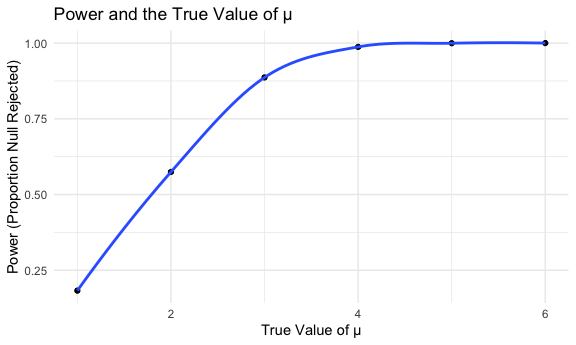
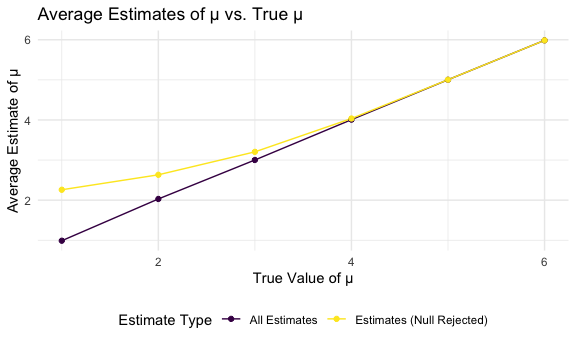
writing comments on plots/editing format

diff --git a/p8105_hw5_yh3824.md b/p8105_hw5_yh3824.md
@@ -1,7 +1,7 @@
 p8105_hw5_yh3824
 ================
 ruby
-2025-10-30
+2025-11-11
 
 load packages/set formatting
 
@@ -28,20 +28,9 @@ scale_fill_discrete = scale_fill_viridis_d
 set.seed(1)
 ```
 
-### Problem 1
+## Problem 1
 
-``` r
-birthdays = sample(1:365, 5, replace = TRUE)
-
-
-repeated_bday = length(unique(birthdays)) < 5
-
-repeated_bday
-```
-
-    ## [1] FALSE
-
-put this into a function
+make a function for birthday simulation
 
 ``` r
 bday_sim = function(n_room) {
@@ -81,7 +70,7 @@ bday_sim_results =
   )
 ```
 
-plot this
+Make a plot
 
 ``` r
 bday_sim_results |> 
@@ -95,7 +84,9 @@ bday_sim_results |>
   )
 ```
 
-<img src="p8105_hw5_yh3824_files/figure-gfm/unnamed-chunk-6-1.png" width="90%" />
+<img src="p8105_hw5_yh3824_files/figure-gfm/unnamed-chunk-5-1.png" width="90%" />
+
+### Comments
 
 This plot shows us that as the probability of sharing a repeated
 birthday increases as the sample group increases. This is as expected as
@@ -103,12 +94,12 @@ the more people who are sampled, the more likely there will be at least
 2 people who share the same birthday. At around 23-24 is when we see the
 probability exceeding 50%, which demonstrates the birthday paradox.
 
-### Problem 2
+## Problem 2
 
 for mu = 0
 
 ``` r
-prob2 = 
+powermu_zero = 
   expand_grid(
     sample_n = 30,
     sample_sd = 5,
@@ -156,10 +147,14 @@ power_sim |>
 )
 ```
 
-    ## `geom_smooth()` using method = 'loess' and formula = 'y ~ x'
+<img src="p8105_hw5_yh3824_files/figure-gfm/unnamed-chunk-8-1.png" width="90%" />
 
-<img src="p8105_hw5_yh3824_files/figure-gfm/unnamed-chunk-9-1.png" width="90%" />
-insert write up!
+### Comments
+
+This plot shows that the power of the test increases as the true value
+of μ increases. When μ is close to the null (0), the test rarely rejects
+the null, resulting in low power. As μ increases, the effect becomes
+easier to detect, and the probability of rejecting the null increases.
 
 make a plot with avg estimate of mu and true value of mu
 
@@ -185,11 +180,18 @@ power_sim |>
   )
 ```
 
-<img src="p8105_hw5_yh3824_files/figure-gfm/unnamed-chunk-10-1.png" width="90%" />
+<img src="p8105_hw5_yh3824_files/figure-gfm/unnamed-chunk-9-1.png" width="90%" />
 
-Insert write up!
+### Comments
 
-### Problem 3
+Across the samples, the average estimate of mu_hat is reasonably similar
+to the true value of mu, reflecting an unbiased estimator. However, when
+looking only at samples where the null was rejected, the average mu_hat
+is larger for smaller true mu values. This could be because as mu
+becomes larger, the probability of the test rejecting the null is
+higher, so the average estimate would match up closer to the true mu.
+
+## Problem 3
 
 import homicide-csv data
 
@@ -197,16 +199,14 @@ import homicide-csv data
 homicide_df = read_csv(file = "./data/homicide-data.csv")
 ```
 
-    ## Rows: 52179 Columns: 12
-    ## ── Column specification ────────────────────────────────────────────────────────
-    ## Delimiter: ","
-    ## chr (9): uid, victim_last, victim_first, victim_race, victim_age, victim_sex...
-    ## dbl (3): reported_date, lat, lon
-    ## 
-    ## ℹ Use `spec()` to retrieve the full column specification for this data.
-    ## ℹ Specify the column types or set `show_col_types = FALSE` to quiet this message.
+### Description of the Raw Data
 
-## Description of the Data
+The `homicide_df` dataset has 52179 observations, with 12 variables. The
+dataset describes homicides in 50 large U.S. cities that occurred
+between approximately 2007-2017. It includes information including where
+the homicide occurred, the victim name, race, sex, and age. It also
+includes disposition of the homicide - if it is Open/no arrest, closed
+by arrest, and closed without arrest.
 
 Create a `city_state` variable
 
@@ -218,7 +218,8 @@ homicide_df =
     ) 
 ```
 
-write a `summarize_homicides` function
+write a `summarize_homicides` function that summarizes the total
+homicides, and total unsolved homicides
 
 ``` r
 summarize_homicides = function(df, disposition_col = "disposition",
@@ -232,10 +233,8 @@ summarize_homicides = function(df, disposition_col = "disposition",
 }
 ```
 
-For the city of Baltimore, MD \* use `prop.test` to estimate the
-proportion of homicides that are unsolved, \* save `prop.test` output as
-an R object, \* apply `broom::tidy` and \* pull the estimate propotion
-and CI
+For the city of Baltimore, MD, pull the estimate proportions and CI of
+unsolved homicides
 
 ``` r
 baltimore_proptest = 
@@ -248,9 +247,16 @@ baltimore_proptest =
   ))() |> 
   broom::tidy() |> 
   select(estimate, conf.low, conf.high)
+
+baltimore_proptest |> 
+  knitr::kable(digits = 2)
 ```
 
-map across all cities
+| estimate | conf.low | conf.high |
+|---------:|---------:|----------:|
+|     0.65 |     0.63 |      0.66 |
+
+Pull proportion of unsolved homicides, and CI across all cities
 
 ``` r
 city_proptest = 
@@ -260,8 +266,7 @@ city_proptest =
   mutate(
     test_result = map2(
       unsolved_homicide,
-      total_homicide,
-      ~ prop.test(.x, .y)  |>  
+      total_homicide, ~ prop.test(.x, .y)  |>  
     broom::tidy())) |> 
   unnest(test_result) |> 
   select(city_state, estimate, conf.low, conf.high)
@@ -271,6 +276,65 @@ city_proptest =
     ## ℹ In argument: `test_result = map2(...)`.
     ## Caused by warning in `prop.test()`:
     ## ! Chi-squared approximation may be incorrect
+
+``` r
+city_proptest |> 
+  knitr::kable(digits = 2)
+```
+
+| city_state         | estimate | conf.low | conf.high |
+|:-------------------|---------:|---------:|----------:|
+| Albuquerque, NM    |     0.39 |     0.34 |      0.44 |
+| Atlanta, GA        |     0.38 |     0.35 |      0.41 |
+| Baltimore, MD      |     0.65 |     0.63 |      0.66 |
+| Baton Rouge, LA    |     0.46 |     0.41 |      0.51 |
+| Birmingham, AL     |     0.43 |     0.40 |      0.47 |
+| Boston, MA         |     0.50 |     0.46 |      0.55 |
+| Buffalo, NY        |     0.61 |     0.57 |      0.65 |
+| Charlotte, NC      |     0.30 |     0.27 |      0.34 |
+| Chicago, IL        |     0.74 |     0.72 |      0.75 |
+| Cincinnati, OH     |     0.45 |     0.41 |      0.48 |
+| Columbus, OH       |     0.53 |     0.50 |      0.56 |
+| Dallas, TX         |     0.48 |     0.46 |      0.51 |
+| Denver, CO         |     0.54 |     0.48 |      0.60 |
+| Detroit, MI        |     0.59 |     0.57 |      0.61 |
+| Durham, NC         |     0.37 |     0.31 |      0.43 |
+| Fort Worth, TX     |     0.46 |     0.42 |      0.51 |
+| Fresno, CA         |     0.35 |     0.31 |      0.39 |
+| Houston, TX        |     0.51 |     0.49 |      0.53 |
+| Indianapolis, IN   |     0.45 |     0.42 |      0.48 |
+| Jacksonville, FL   |     0.51 |     0.48 |      0.54 |
+| Kansas City, MO    |     0.41 |     0.38 |      0.44 |
+| Las Vegas, NV      |     0.41 |     0.39 |      0.44 |
+| Long Beach, CA     |     0.41 |     0.36 |      0.46 |
+| Los Angeles, CA    |     0.49 |     0.47 |      0.51 |
+| Louisville, KY     |     0.45 |     0.41 |      0.49 |
+| Memphis, TN        |     0.32 |     0.30 |      0.34 |
+| Miami, FL          |     0.60 |     0.57 |      0.64 |
+| Milwaukee, wI      |     0.36 |     0.33 |      0.39 |
+| Minneapolis, MN    |     0.51 |     0.46 |      0.56 |
+| Nashville, TN      |     0.36 |     0.33 |      0.40 |
+| New Orleans, LA    |     0.65 |     0.62 |      0.67 |
+| New York, NY       |     0.39 |     0.35 |      0.43 |
+| Oakland, CA        |     0.54 |     0.50 |      0.57 |
+| Oklahoma City, OK  |     0.49 |     0.45 |      0.52 |
+| Omaha, NE          |     0.41 |     0.37 |      0.46 |
+| Philadelphia, PA   |     0.45 |     0.43 |      0.47 |
+| Phoenix, AZ        |     0.55 |     0.52 |      0.58 |
+| Pittsburgh, PA     |     0.53 |     0.49 |      0.57 |
+| Richmond, VA       |     0.26 |     0.22 |      0.31 |
+| Sacramento, CA     |     0.37 |     0.32 |      0.42 |
+| San Antonio, TX    |     0.43 |     0.39 |      0.46 |
+| San Bernardino, CA |     0.62 |     0.56 |      0.68 |
+| San Diego, CA      |     0.38 |     0.34 |      0.43 |
+| San Francisco, CA  |     0.51 |     0.47 |      0.55 |
+| Savannah, GA       |     0.47 |     0.40 |      0.53 |
+| St. Louis, MO      |     0.54 |     0.52 |      0.56 |
+| Stockton, CA       |     0.60 |     0.55 |      0.64 |
+| Tampa, FL          |     0.46 |     0.39 |      0.53 |
+| Tulsa, AL          |     0.00 |     0.00 |      0.95 |
+| Tulsa, OK          |     0.33 |     0.29 |      0.37 |
+| Washington, DC     |     0.44 |     0.41 |      0.46 |
 
 create a plot
 
@@ -284,14 +348,19 @@ city_proptest |>
     geom_point(size = 1) +                      
     geom_errorbar(aes(ymin = conf.low, ymax = conf.high),       
                   width = 0.2) +
-    coord_flip() +                                              
     labs(
       x = "City",
       y = "Proportion of Unsolved Homicides",
       title = "Estimated Proportion of Unsolved Homicides by City",
       subtitle = "With 95% Confidence Intervals"
     ) +
-    theme_minimal()
+    theme(axis.text.x = element_text(angle = 90, hjust = 1, vjust = 0.5))
 ```
 
-<img src="p8105_hw5_yh3824_files/figure-gfm/unnamed-chunk-16-1.png" width="90%" />
+<img src="p8105_hw5_yh3824_files/figure-gfm/unnamed-chunk-15-1.png" width="90%" />
+
+### Comments
+
+Proportion of unsolved homicides is highest in Chicago, IL, and the
+lowest in Richmond, VA. (Tulsa, AL is the lowest at 0, this might be an
+error in the dataset)
